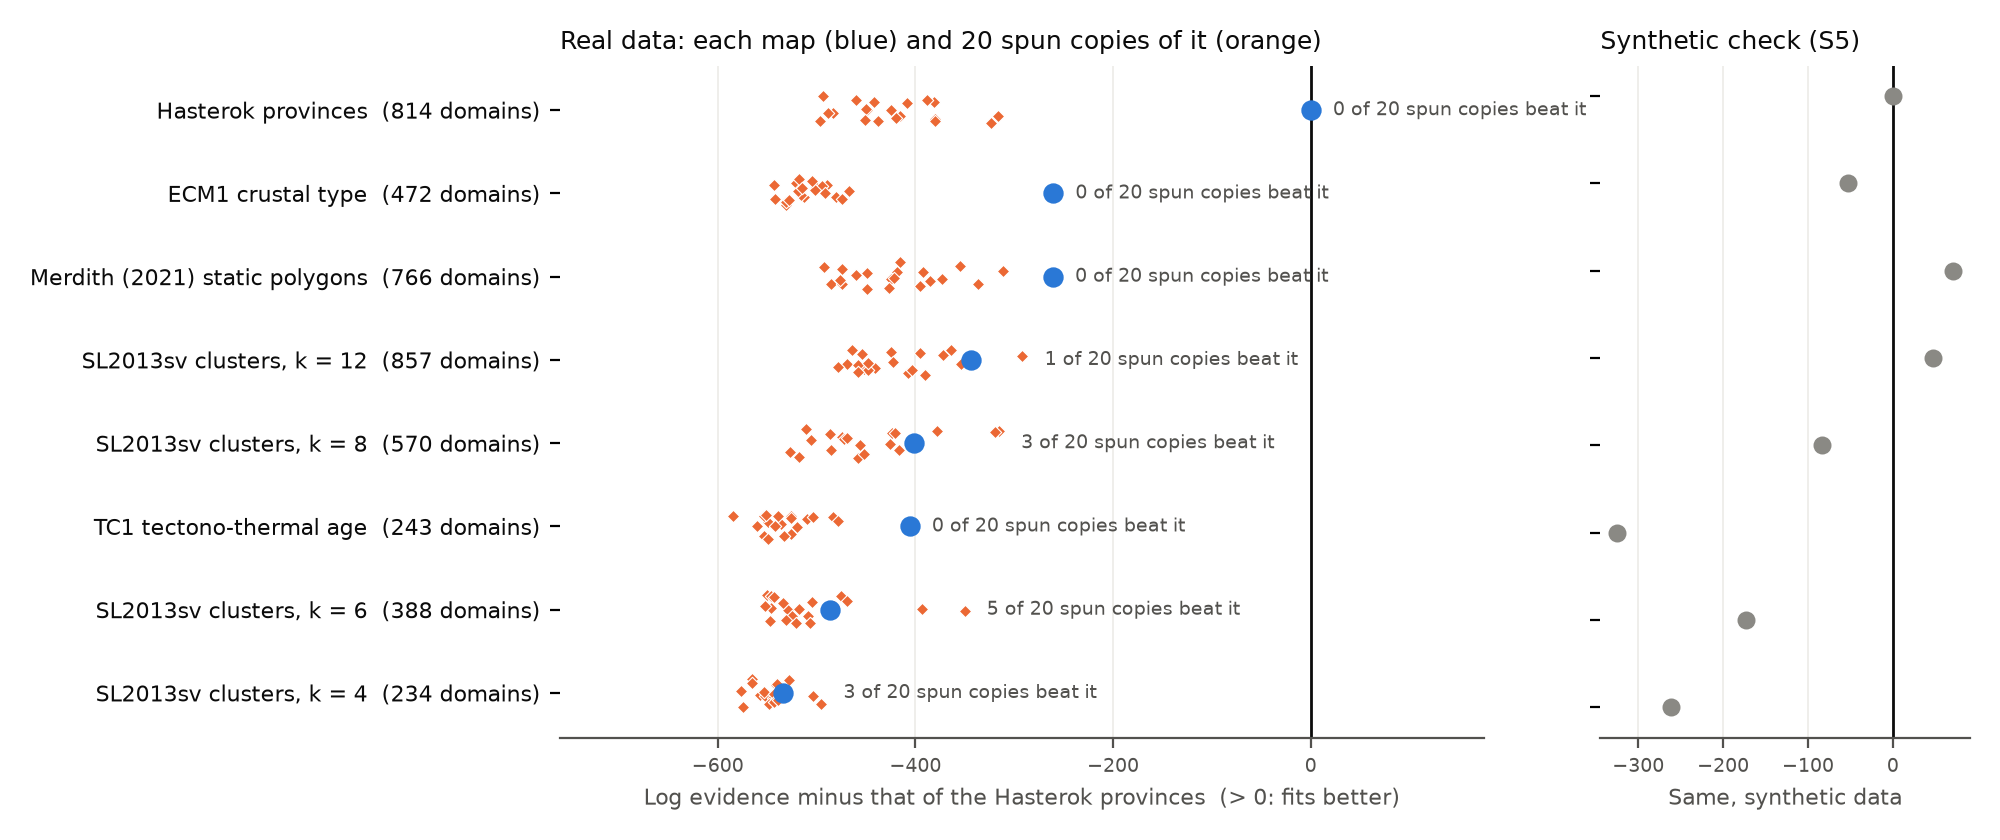
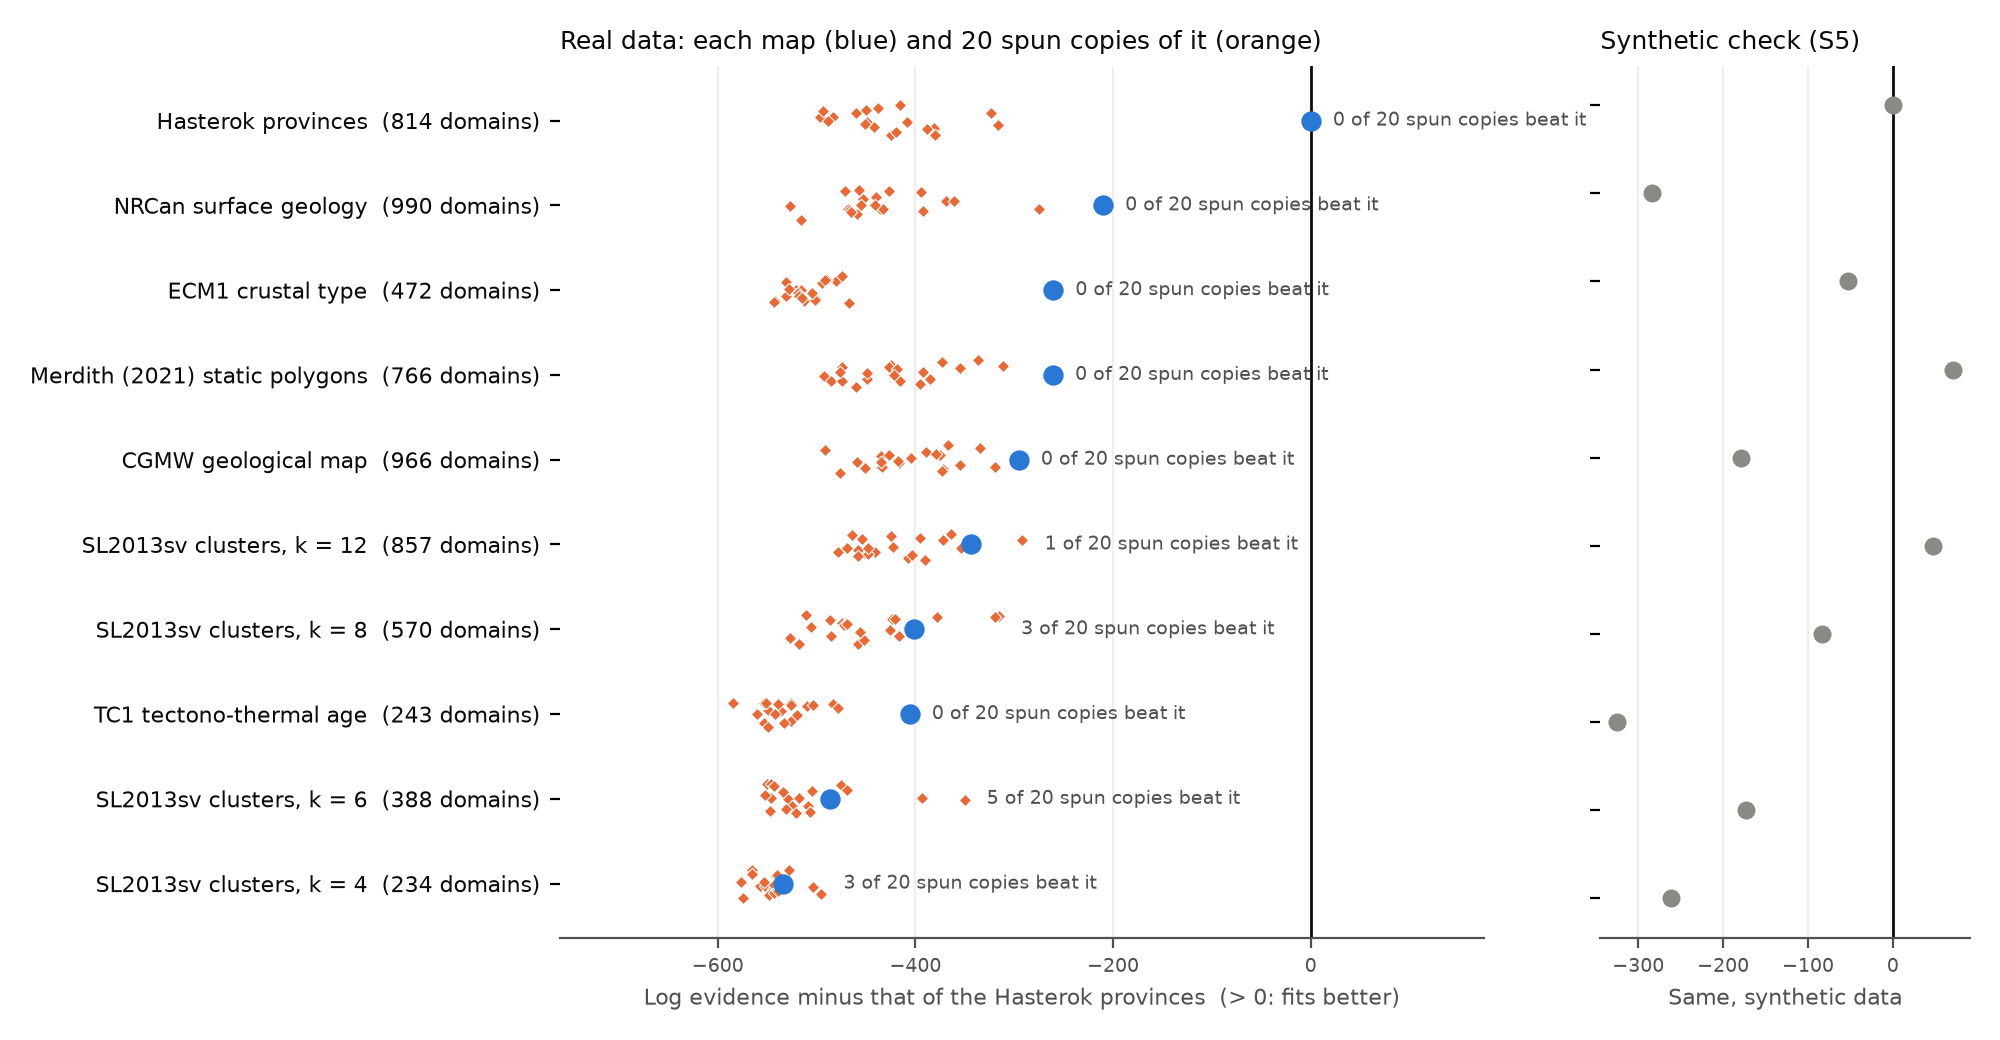
Candidate geology maps batch 2: NRCan surface geology and the CGMW map as global layouts (legend units, holes kept, smallest overlapping polygon wins), each against 20 spun copies and on S5
Both beat all their spun copies; NRCan ranks second to the Hasterok provinces by evidence.

diff --git a/docs/reports/2026-10-13-candidate-sets/make_ranking.py b/docs/reports/2026-10-13-candidate-sets/make_ranking.py
@@ -1,6 +1,6 @@
-"""Batch 1 of the candidate-map test: each map's evidence against the Hasterok provinces, against 20 spun copies of
+"""The candidate-map test (batches 1 and 2): each map's evidence against the Hasterok provinces, against 20 spun copies of
 itself, and on the S5 synthetic data; and maps of each map's domains and fitted VIS.
-Read from the runs gcm_glc_cand1_*. Run from the repository root."""
+Read from the runs gcm_glc_cand1_* and gcm_glc_cand2_*. Run from the repository root."""
 import glob
 import re
 
@@ -17,7 +17,9 @@ REF = 'cand:hasterok'
 NAMES = {'cand:hasterok': 'Hasterok provinces', 'cand:sl2013_k4': 'SL2013sv clusters, k = 4',
          'cand:sl2013_k6': 'SL2013sv clusters, k = 6', 'cand:sl2013_k8': 'SL2013sv clusters, k = 8',
          'cand:sl2013_k12': 'SL2013sv clusters, k = 12', 'cand:tc1': 'TC1 tectono-thermal age',
-         'cand:ecm1': 'ECM1 crustal type', 'cand:merdith': 'Merdith (2021) static polygons'}
+         'cand:ecm1': 'ECM1 crustal type', 'cand:merdith': 'Merdith (2021) static polygons',
+         'cand:nrcan': 'NRCan surface geology', 'cand:cgmw': 'CGMW geological map'}
+BATCHES = ('cand1', 'cand2')
 
 
 def evidence(path):
@@ -30,22 +32,27 @@ def evidence(path):
     return out
 
 
+def runs(tag):
+    """log evidence of every layout of the batches run so far, on real data (tag 'lcs1_16-133') or S5 ('syn_s5')"""
+    out = {}
+    for b in BATCHES:
+        for f in glob.glob(R + f'gcm_glc_{b}_{tag}.log'):
+            out = {**evidence(f), **out}                     # the first batch's value of a layout run twice
+    return out
+
+
 def spun(cand):
     """log evidence of the spun copies of a candidate, if its null run has finished"""
-    f = glob.glob(R + f'gcm_glc_cand1_null_{cand[5:]}_lcs1_16-133.log')
+    f = glob.glob(R + f'gcm_glc_cand*_null_{cand[5:]}_lcs1_16-133.log')
     return np.array([v for v, _ in evidence(f[0]).values()]) if f else np.array([])
 
 
 def chart():
-    real = evidence(R + 'gcm_glc_cand1_lcs1_16-133.log')
-    try:
-        syn = evidence(R + 'gcm_glc_cand1_syn_s5.log')
-    except FileNotFoundError:
-        syn = {}
-    cands = sorted(NAMES, key=lambda c: real[c][0])
+    real, syn = runs('lcs1_16-133'), runs('syn_s5')
+    cands = sorted((c for c in NAMES if c in real), key=lambda c: real[c][0])
     ref = real[REF][0]
     INK, MUTED, REAL, SPIN, SYN = '#0b0b0b', '#52514e', '#2a78d6', '#eb6834', '#8a8984'
-    fig, (ax, bx) = plt.subplots(1, 2, figsize=(10, 4.2), dpi=200, gridspec_kw=dict(width_ratios=[3, 1.2]))
+    fig, (ax, bx) = plt.subplots(1, 2, figsize=(10, 1.2 + 0.4*len(cands)), dpi=200, gridspec_kw=dict(width_ratios=[3, 1.2]))
     rng = np.random.default_rng(1)
     for y, c in enumerate(cands):
         s = spun(c) - ref
@@ -84,18 +91,20 @@ def chart():
 
 def maps():
     """for each map: its domains (random colours) and the fitted VIS averaged over each domain"""
-    ds = xr.load_dataset(R + 'gcm_glc_cand1_lcs1_16-133.nc')
+    sets = [xr.load_dataset(f) for b in BATCHES for f in glob.glob(R + f'gcm_glc_{b}_lcs1_16-133.nc')]
+    ds = sets[0]
     cell = figures.cell_grid(ds)
     a = ds.area_km2.values
-    real = evidence(R + 'gcm_glc_cand1_lcs1_16-133.log')
-    cands = sorted(NAMES, key=lambda c: -real[c][0])
+    real = runs('lcs1_16-133')
+    cands = sorted((c for c in NAMES if c in real), key=lambda c: -real[c][0])
     fig = pygmt.Figure()
     pygmt.config(FONT_TITLE='8p', FONT_ANNOT_PRIMARY='6p', FONT_LABEL='7p', MAP_FRAME_TYPE='plain',
                  MAP_TITLE_OFFSET='3p')
     rng = np.random.default_rng(3)
     for k, c in enumerate(cands):
         v = c.replace(':', '_')
-        vis, dom = ds[f'layout_vis_{v}'].values, ds[f'layout_domain_{v}'].values.astype(int)
+        d = next(x for x in sets if f'layout_vis_{v}' in x)
+        vis, dom = d[f'layout_vis_{v}'].values, d[f'layout_domain_{v}'].values.astype(int)
         if k:
             fig.shift_origin(xshift='-10.5c', yshift='-6.0c')
         fig.basemap(region=[-180, 180, -90, 85], projection='N0/10c', frame=['f', f'+t{NAMES[c]}: domains'])

diff --git a/remit/inversion/candidates.py b/remit/inversion/candidates.py
@@ -5,6 +5,10 @@ evidence can rank them and spun copies of each can serve as its own null. Maps t
 
   sources      polygons, one unit per polygon (point in polygon on the sphere, pygplates):
                  merdith      Merdith et al. (2021, v1.1) static polygons less the oceanic ones (gpml:Basin)
+               polygons of a geological map, one unit per legend entry (so touching polygons of one entry are
+               one patch); holes kept, and where polygons overlap the smallest holding the node wins:
+                 nrcan        NRCan surface geology (gprm), legend: rock type and age range
+                 cgmw         CGMW Geological Map of the World, legend: CODE_G (lakes and glaciers left out)
                lon/lat class grids, the unit of a node being the class of the grid cell holding it:
                  tc1          tectono-thermal age bins (Artemieva 2006; grid by C. Heine)
                  ecm1         ECM1 crustal type (Mooney et al. 2023), 1 deg
@@ -32,8 +36,9 @@ SL2013 = f'{DATA}/SeismicTomography/SL2013SV/SL2013sv_tri-grd_v2/SL2013sv_25k-k.
 SL2013_DEPTHS = (50., 300.)
 TC1 = f'{DATA}/GMTdata/TectonoThermalAge/TC1_TectThermAge_RevEng_AgeBins.nc'
 ECM1 = os.path.expanduser('~/Downloads/ECM1/ECM1.txt')
+CGMW = f'{DATA}/Geology/CGMW_GeologicalUnits.shp'
 MERDITH = 'Merdith2021/SM2-Merdith_et_al_1_Ga_reconstruction_v1.1/shapes_static_polygons_Merdith_et_al.gpml'
-SOURCES = ('tc1', 'ecm1', 'merdith')                       # plus sl2013_k<k>
+SOURCES = ('tc1', 'ecm1', 'merdith', 'nrcan', 'cgmw')                       # plus sl2013_k<k>
 
 
 def _west(lon):
@@ -107,10 +112,44 @@ def _merdith(lon, lat):
     return np.array([-1 if h is None else h for h in hit])
 
 
+def _map_units(gdf, unit, lon, lat):
+    """legend unit (codes of the column unit) of the smallest polygon of gdf holding each point; -1 where none"""
+    import pandas as pd
+    import pygplates
+    from ptt.utils.points_in_polygons import find_polygons
+    code = pd.factorize(gdf[unit])[0]
+    polygons, proxies = [], []
+    for geom, c in zip(gdf.geometry, code):
+        for part in getattr(geom, 'geoms', [geom]):
+            outer = geometry._densified_polygon(part.exterior)
+            holes = [list(geometry._densified_polygon(h).get_exterior_ring_points()) for h in part.interiors]
+            polygons.append(pygplates.PolygonOnSphere(list(outer.get_exterior_ring_points()), holes) if holes else outer)
+            proxies.append(len(polygons) - 1)
+    area = np.array([p.get_area() for p in polygons])
+    unit_of = np.repeat(code, [len(getattr(g, 'geoms', [g])) for g in gdf.geometry])
+    points = [pygplates.PointOnSphere(float(a), float(o)) for o, a in zip(lon, lat)]
+    hits = find_polygons(points, polygons, proxies, all_polygons=True, subdivision_depth=6)
+    return np.array([-1 if not h else unit_of[min(h, key=lambda k: area[k])] for h in hits])
+
+
+def _nrcan(lon, lat):
+    from gprm.datasets import Geology
+    g = Geology.fetch_SurfaceGeology().to_crs('EPSG:4326')     # supplied in WGS72
+    g['unit'] = g.AGERXTP.astype(str) + '|' + g.FROMAGE.astype(str) + '|' + g.TOAGE.astype(str)
+    return _map_units(g, 'unit', lon, lat)
+
+
+def _cgmw(lon, lat):
+    import geopandas as gpd
+    g = gpd.read_file(CGMW)
+    g = g[~g.LITHOLOG_1.str.startswith(('Lake', 'Glacier'))]
+    return _map_units(g, 'CODE_G', lon, lat)
+
+
 def _source(name):
     if name.startswith('sl2013_k'):
         return lambda lon, lat: _sl2013(int(name[8:]), lon, lat)
-    return {'tc1': _tc1, 'ecm1': _ecm1, 'merdith': _merdith}[name]
+    return {'tc1': _tc1, 'ecm1': _ecm1, 'merdith': _merdith, 'nrcan': _nrcan, 'cgmw': _cgmw}[name]
 
 
 def node_units(name, cells, cache, area_name, g=None):

diff --git a/tests/test_candidates.py b/tests/test_candidates.py
@@ -45,3 +45,14 @@ def test_class_grid_wraps_at_the_dateline():
     values = np.tile(np.arange(360.), (180, 1))
     got = candidates._class_grid(values, lon_c, lat_c, np.array([179.9, 180.1, 359.9, 0.2]), np.zeros(4))
     assert list(got) == [359, 0, 179, 180]
+
+
+def test_map_units_keep_holes_and_take_the_smallest_polygon():
+    import geopandas as gpd
+    from shapely.geometry import Polygon
+    outer = Polygon([(0, 0), (10, 0), (10, 10), (0, 10)], [[(4, 4), (6, 4), (6, 6), (4, 6)]])
+    lake = Polygon([(4.5, 4.5), (5.5, 4.5), (5.5, 5.5), (4.5, 5.5)])      # sits in part of the hole
+    big = Polygon([(-1, -1), (11, -1), (11, 11), (-1, 11)])               # overlaps everything
+    g = gpd.GeoDataFrame(dict(u=['outer', 'lake', 'big']), geometry=[outer, lake, big], crs='EPSG:4326')
+    got = candidates._map_units(g, 'u', np.array([2., 5., 4.2, 10.5]), np.array([2., 5., 4.2, 10.5]))
+    assert list(got) == [0, 1, 2, 2]                 # outer; lake; in the hole only 'big'; outside outer: 'big'

diff --git a/docs/reports/2026-10-13-candidate-sets/README.md b/docs/reports/2026-10-13-candidate-sets/README.md
@@ -55,10 +55,24 @@ The spin test turns each continent's units by a random angle about the continent
 - **SL2013sv does not pass.** At every k, some spun copies fit as well as or better than the real clustering. So the 50–300 km velocity structure shows no clear link to where the magnetic sources change. Its score rises with k because it has more, smaller domains.
 - **The synthetic check** (right of the chart; data with no geology in it) shows what domain count alone does. Maps with about 800 domains score best, and Merdith comes out ahead of Hasterok. So Hasterok's lead on real data is not an artefact of its domain count. TC1's low raw rank, however, is mostly due to its few domains. For TC1, the spin test is the fairer measure.
 
+### Batch 2: detailed surface geology (NRCan, CGMW)
+
+The same test, for two detailed surface-geology maps. Here a unit is a legend entry: rock type plus age range for NRCan (439 entries), and `CODE_G` for CGMW (51 entries). Touching polygons of the same entry form one patch. Polygons keep their holes, and where polygons overlap the smallest one wins. CGMW lakes and glaciers are left out. The chart above includes both maps.
+
+| Map | Domains | Evidence vs Hasterok | Real minus median spun copy | Spun copies that beat it |
+|---|---|---|---|---|
+| NRCan surface geology | 990 | −210 | +237 | 0 of 20 |
+| CGMW geological map | 966 | −296 | +115 | 0 of 20 |
+
+- **Both maps pass the spin test.** NRCan has the second-best evidence of all ten maps, behind only Hasterok.
+- **The synthetic check rules out domain count as the explanation.** On data with no geology, both maps score below Hasterok (NRCan −284, CGMW −179), even though they have more domains. Their real-data gap to Hasterok is therefore not caused by their domain count.
+
+So six maps carry information about the magnetic field: Hasterok, NRCan, ECM1, Merdith, CGMW and TC1. The Hasterok provinces carry the most.
+
 ### Domains and fitted VIS
 
 ![](candidate_maps.png)
 
 Left: each map's domains in random colours. Right: the fitted VIS averaged over each domain. The maps are ordered by evidence, best first.
 
-Made by `make_ranking.py` from the runs `inversions/gcm_glc_cand1_*` (queue: `acceptance/cand1_queue.sh`).
+Made by `make_ranking.py` from the runs `inversions/gcm_glc_cand1_*` and `gcm_glc_cand2_*` (queues: `acceptance/cand1_queue.sh`, `cand2_queue.sh`).
